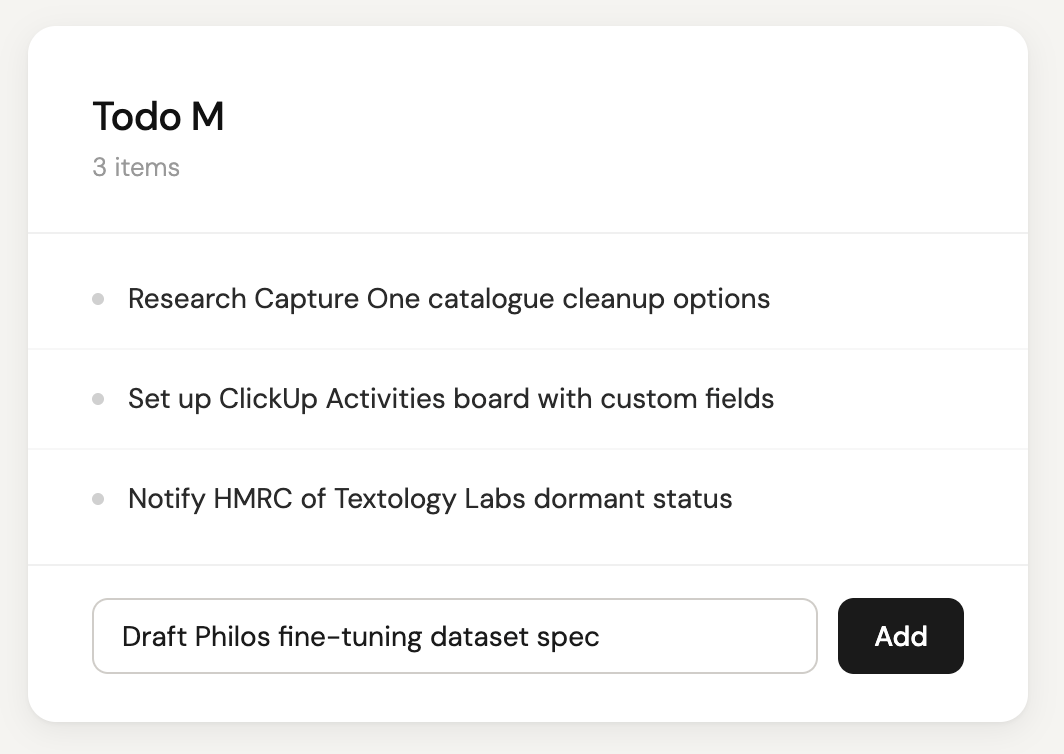
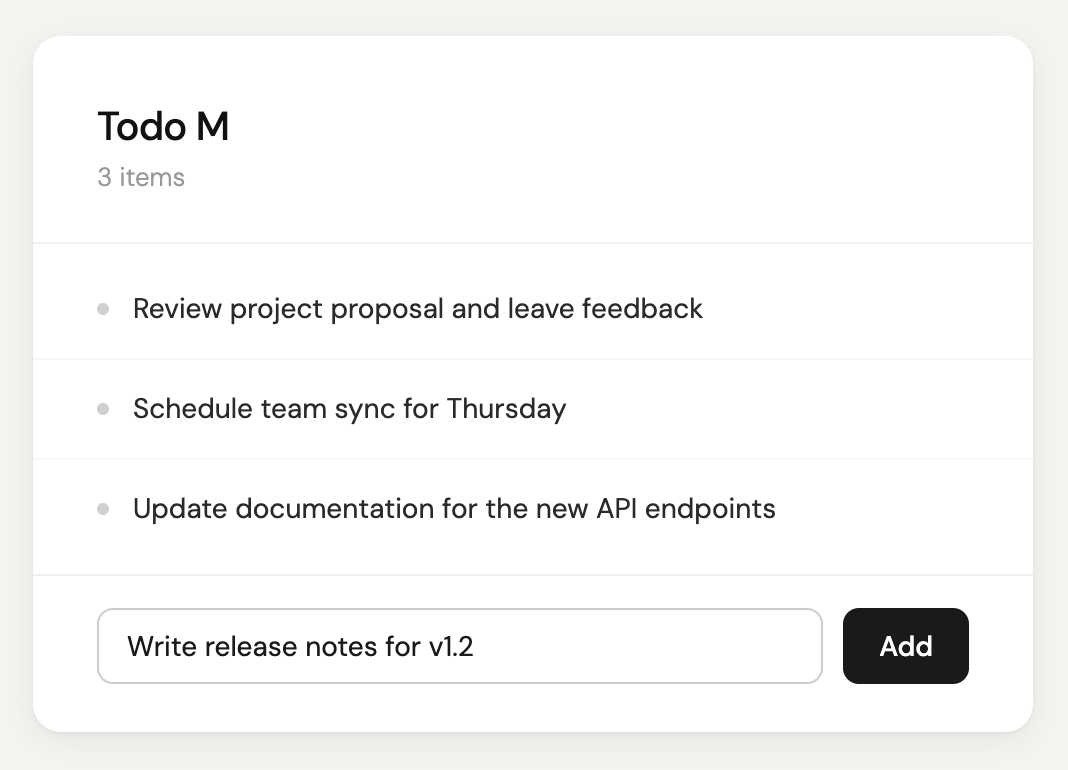
📝 add I-015 (AOT terminology) and I-016 (fan-out status reporting)
- Rename shadow integration → ahead-of-time integration (post-demo)
- Capture fan-out report-status fix-forward for wire-orchestration power
- Pixelmatch diff artefacts from TODOM-001c visual validation

diff --git a/docs/improvements-and-ideas.md b/docs/improvements-and-ideas.md
@@ -1309,3 +1309,91 @@ Also updated scaffold-repo capability doc to:
 - Generate dependency-aware env vars (one per API dependency, from topology)
 - Generate API stubs for frontend repos with API dependencies
 - Include shared-state pattern for read/write stub pairs
+
+---
+
+## I-015: Rename "shadow integration" to "ahead-of-time integration"
+
+**Category:** Terminology
+**Priority:** Important (affects all docs, slides, demo script)
+**Discovered:** 2026-04-06, during demo rehearsal
+
+### Problem
+
+"Shadow integration" sounds sneaky — like something running behind the
+scenes that you shouldn't trust. The mechanism is the opposite: it's
+transparent, deliberate, and the core confidence signal in M.
+
+### Proposal
+
+Rename to **ahead-of-time integration** (AOT integration). This says
+exactly what it is: testing the post-merge composition before anyone
+hits the merge button. The system composes all story branches into the
+speculative post-merge state and runs the full acceptance suite against
+it — ahead of time.
+
+### What needs updating
+
+- methodology-m.md (all references to "shadow")
+- Demo slides (especially slide 6: "Shadow integration" → "Ahead-of-time integration")
+- Demo runbook (docs/demo-runbook.md)
+- CI job names (`shadow:compose` → `aot:compose`, `shadow:integration-test` → `aot:integration-test`, etc.)
+- M Power capability docs (wire-orchestration, scaffold-repo)
+- Workshop steering
+- Root repo CI pipeline on GitLab
+
+### Timing
+
+After the demo. The rename touches too many files to risk before Friday.
+Use "ahead-of-time integration" in the slides and narration; leave the
+CI job names as `shadow:*` for now and rename in a cleanup pass.
+
+
+---
+
+## I-016: wire-orchestration must generate fan-out status reporting
+
+**Category:** M Power capability fix (fix-forward)
+**Priority:** Critical (core orchestration behaviour)
+**Discovered:** 2026-04-06, during demo rehearsal — AOT integration only
+reported status to the triggering repo, leaving other story MRs red
+
+### Problem
+
+The `wire-orchestration` capability generated `shadow:report-status` and
+`shadow:report-failure` CI jobs that only pushed commit status back to
+`$SOURCE_PROJECT_ID` — the repo whose webhook triggered the pipeline.
+Other repos with open MRs for the same story never received the status.
+
+This broke the core M promise: when the HEAD component arrives and AOT
+integration passes, ALL story MRs should go green simultaneously.
+
+### What was fixed live
+
+1. Created `scripts/report-shadow-status.sh` — iterates all managed repos
+   in the topology, finds open MRs matching the story ID, and pushes
+   commit status to each one.
+2. Updated `shadow:integration` job to export `STORY_ID` via dotenv
+   artifact so report-status jobs can access it.
+3. Both `shadow:report-status` and `shadow:report-failure` now call the
+   shared script with `success` or `failed` argument.
+
+### What needs updating in M Power
+
+The `wire-orchestration` capability doc must:
+
+1. Generate `scripts/report-shadow-status.sh` (or equivalent) as part of
+   root repo scaffolding — parameterised with the managed repo list from
+   the topology
+2. Generate the CI report jobs calling the shared script instead of
+   inline single-repo curl
+3. Include the dotenv artifact on `shadow:integration` for STORY_ID
+4. Document that status fan-out is how the cascade works — it's not
+   optional, it's the mechanism that makes AOT integration visible
+
+### Also fix
+
+The `scaffold-repo` capability doc should mention that managed repos
+will receive external commit statuses from the root repo's AOT pipeline,
+and that `only_allow_merge_if_pipeline_succeeds` gates on these.
+

diff --git a/.kiro/steering/hemingway-bridge.md b/.kiro/steering/hemingway-bridge.md
@@ -51,3 +51,9 @@ Enough to reconstruct the environment without reading every file.]
 - Only write the bridge when the user explicitly says `bridge` — do NOT
   update it proactively during the session. It is a one-off end-of-session
   snapshot, not a living document.
+- The bridge has exactly TWO uses: (1) writing it when the user says
+  `bridge` at end of day, (2) reading it at the START of the next day's
+  first session. That's it. Do NOT suggest reading or writing the bridge
+  at any other time. Do NOT use it as a mid-session context restore when
+  starting a new chat within the same day. If the user needs a mid-session
+  handoff, they will provide an opener prompt — not the bridge.
